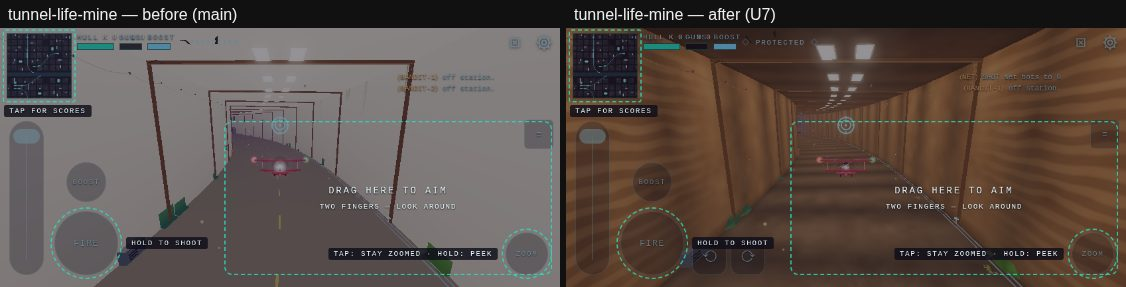
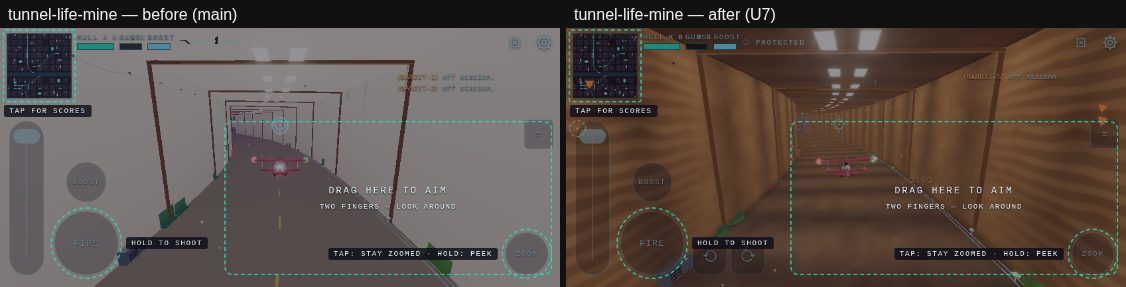
docs(U7): before/after gallery from the final build

diff --git a/docs/tunnel-look/README.md b/docs/tunnel-look/README.md
@@ -6,6 +6,16 @@ Every `tunnel-*` gallery view (`tools/perf/gallery-views.mjs`), before (main at
 (844×390, touch UI, Mobile tier; `AB_GALLERY_DEVICE=phone`). Both were shot on
 SwiftShader (this box has no GPU), at a pixel ratio of 1, deep night.
 
+**Provenance.** The "after" shots come from the final build, except where its
+software-GL renderer crashed under load on this shared box. Those views come
+from the post-merge build `fa41aa0`, which has the same surface, water and
+debris code; only the later perf trims differ (sparser vine leaves,
+four-sided crystals, fewer floor ferns and bushes, corner occlusion moved
+into the shader). They are desktop `tunnel-grotto`, `tunnel-portal`,
+`tunnel-station`, `tunnel-cavein-warning` and `tunnel-cavein-rubble`, and
+phone `tunnel-cavein-*`. Main's build crashed the same way on the same box,
+and so did the staged cave-ins: sometimes their rocks were never drawn.
+
 Reproduce:
 
 ```sh
@@ -17,29 +27,29 @@ AB_CHROME=<headless shell> AB_CHROME_ARGS="--use-angle=swiftshader --enable-unsa
 
 ## Pixel pass
 
-These figures come from the final PNGs (sRGB). ">0.95" is the share of the
-frame whose luma is above 0.95, light sources and HUD included. Saturation is
-mean HSV saturation; ✓ marks a gain of at least 0.05. `tunnel-portal` and
+These figures come from the PNGs (sRGB). ">0.95" is the share of the frame
+whose luma is above 0.95, light sources and HUD included. Saturation is mean
+HSV saturation; ✓ marks a gain of at least 0.05. `tunnel-portal` and
 `tunnel-river-mouth` look at the portals from outside, so they barely change.
 
 ### Desktop (High)
 
 | view | >0.95 before | >0.95 after | mean luma before → after | mean sat before → after |
 |---|---|---|---|---|
-| tunnel-cavein-fall | 0.23 % | 0.02 % | 0.68 → 0.38 | 0.18 → 0.66 ✓ |
+| tunnel-cavein-fall | 0.23 % | 0.03 % | 0.68 → 0.38 | 0.18 → 0.66 ✓ |
 | tunnel-cavein-rubble | 0.57 % | 0.33 % | 0.68 → 0.38 | 0.18 → 0.64 ✓ |
 | tunnel-cavein-warning | 0.30 % | 0.05 % | 0.69 → 0.38 | 0.18 → 0.66 ✓ |
 | tunnel-exit | 0.00 % | 0.00 % | 0.55 → 0.34 | 0.18 → 0.25 ✓ |
-| tunnel-garden | 1.58 % | 1.38 % | 0.71 → 0.47 | 0.19 → 0.44 ✓ |
+| tunnel-garden | 1.58 % | 1.02 % | 0.71 → 0.47 | 0.19 → 0.43 ✓ |
 | tunnel-grotto | 0.29 % | 0.14 % | 0.68 → 0.38 | 0.18 → 0.68 ✓ |
-| tunnel-life-grotto | 0.65 % | 0.39 % | 0.70 → 0.40 | 0.18 → 0.64 ✓ |
+| tunnel-life-grotto | 0.65 % | 0.38 % | 0.70 → 0.40 | 0.18 → 0.63 ✓ |
 | tunnel-life-lake | 0.00 % | 0.00 % | 0.58 → 0.40 | 0.56 → 0.60 |
-| tunnel-life-mine | 0.33 % | 0.26 % | 0.66 → 0.39 | 0.20 → 0.55 ✓ |
-| tunnel-life-platform | 0.28 % | 0.13 % | 0.67 → 0.44 | 0.18 → 0.32 ✓ |
+| tunnel-life-mine | 0.33 % | 0.22 % | 0.66 → 0.39 | 0.20 → 0.51 ✓ |
+| tunnel-life-platform | 0.28 % | 0.20 % | 0.67 → 0.44 | 0.18 → 0.33 ✓ |
 | tunnel-life-works | 0.46 % | 0.31 % | 0.70 → 0.45 | 0.17 → 0.29 ✓ |
-| tunnel-mid | 0.66 % | 0.61 % | 0.69 → 0.41 | 0.18 → 0.55 ✓ |
+| tunnel-mid | 0.66 % | 1.23 % | 0.69 → 0.41 | 0.18 → 0.56 ✓ |
 | tunnel-portal | 0.01 % | 0.01 % | 0.23 → 0.23 | 0.47 → 0.47 |
-| tunnel-river-mouth | 0.08 % | 0.08 % | 0.20 → 0.20 | 0.53 → 0.53 |
+| tunnel-river-mouth | 0.08 % | 0.09 % | 0.20 → 0.18 | 0.53 → 0.56 |
 | tunnel-station | 0.41 % | 0.19 % | 0.63 → 0.43 | 0.21 → 0.32 ✓ |
 
 ### Phone (Mobile tier)
@@ -50,14 +60,14 @@ mean HSV saturation; ✓ marks a gain of at least 0.05. `tunnel-portal` and
 | tunnel-cavein-rubble | 0.06 % | 0.06 % | 0.42 → 0.24 | 0.09 → 0.60 ✓ |
 | tunnel-cavein-warning | 0.06 % | 0.06 % | 0.42 → 0.24 | 0.09 → 0.63 ✓ |
 | tunnel-exit | 0.06 % | 0.06 % | 0.36 → 0.23 | 0.12 → 0.21 ✓ |
-| tunnel-garden | 0.06 % | 0.06 % | 0.44 → 0.29 | 0.09 → 0.34 ✓ |
+| tunnel-garden | 0.06 % | 0.06 % | 0.44 → 0.27 | 0.09 → 0.32 ✓ |
 | tunnel-grotto | 0.06 % | 0.06 % | 0.43 → 0.24 | 0.08 → 0.65 ✓ |
 | tunnel-life-grotto | 0.06 % | 0.06 % | 0.43 → 0.24 | 0.08 → 0.64 ✓ |
-| tunnel-life-lake | 0.06 % | 0.06 % | 0.35 → 0.25 | 0.47 → 0.59 ✓ |
-| tunnel-life-mine | 0.06 % | 0.06 % | 0.42 → 0.25 | 0.09 → 0.46 ✓ |
+| tunnel-life-lake | 0.06 % | 0.06 % | 0.35 → 0.24 | 0.47 → 0.59 ✓ |
+| tunnel-life-mine | 0.06 % | 0.06 % | 0.42 → 0.26 | 0.09 → 0.47 ✓ |
 | tunnel-life-platform | 0.06 % | 0.06 % | 0.41 → 0.27 | 0.11 → 0.33 ✓ |
-| tunnel-life-works | 0.06 % | 0.06 % | 0.43 → 0.27 | 0.08 → 0.22 ✓ |
+| tunnel-life-works | 0.06 % | 0.06 % | 0.43 → 0.28 | 0.08 → 0.19 ✓ |
 | tunnel-mid | 0.06 % | 0.06 % | 0.43 → 0.26 | 0.09 → 0.48 ✓ |
-| tunnel-portal | 0.06 % | 0.06 % | 0.16 → 0.16 | 0.44 → 0.45 |
-| tunnel-river-mouth | 0.06 % | 0.06 % | 0.14 → 0.14 | 0.53 → 0.52 |
-| tunnel-station | 0.06 % | 0.06 % | 0.41 → 0.26 | 0.11 → 0.35 ✓ |
+| tunnel-portal | 0.06 % | 0.06 % | 0.16 → 0.18 | 0.44 → 0.47 |
+| tunnel-river-mouth | 0.06 % | 0.06 % | 0.14 → 0.13 | 0.53 → 0.54 |
+| tunnel-station | 0.06 % | 0.06 % | 0.41 → 0.27 | 0.11 → 0.32 ✓ |
